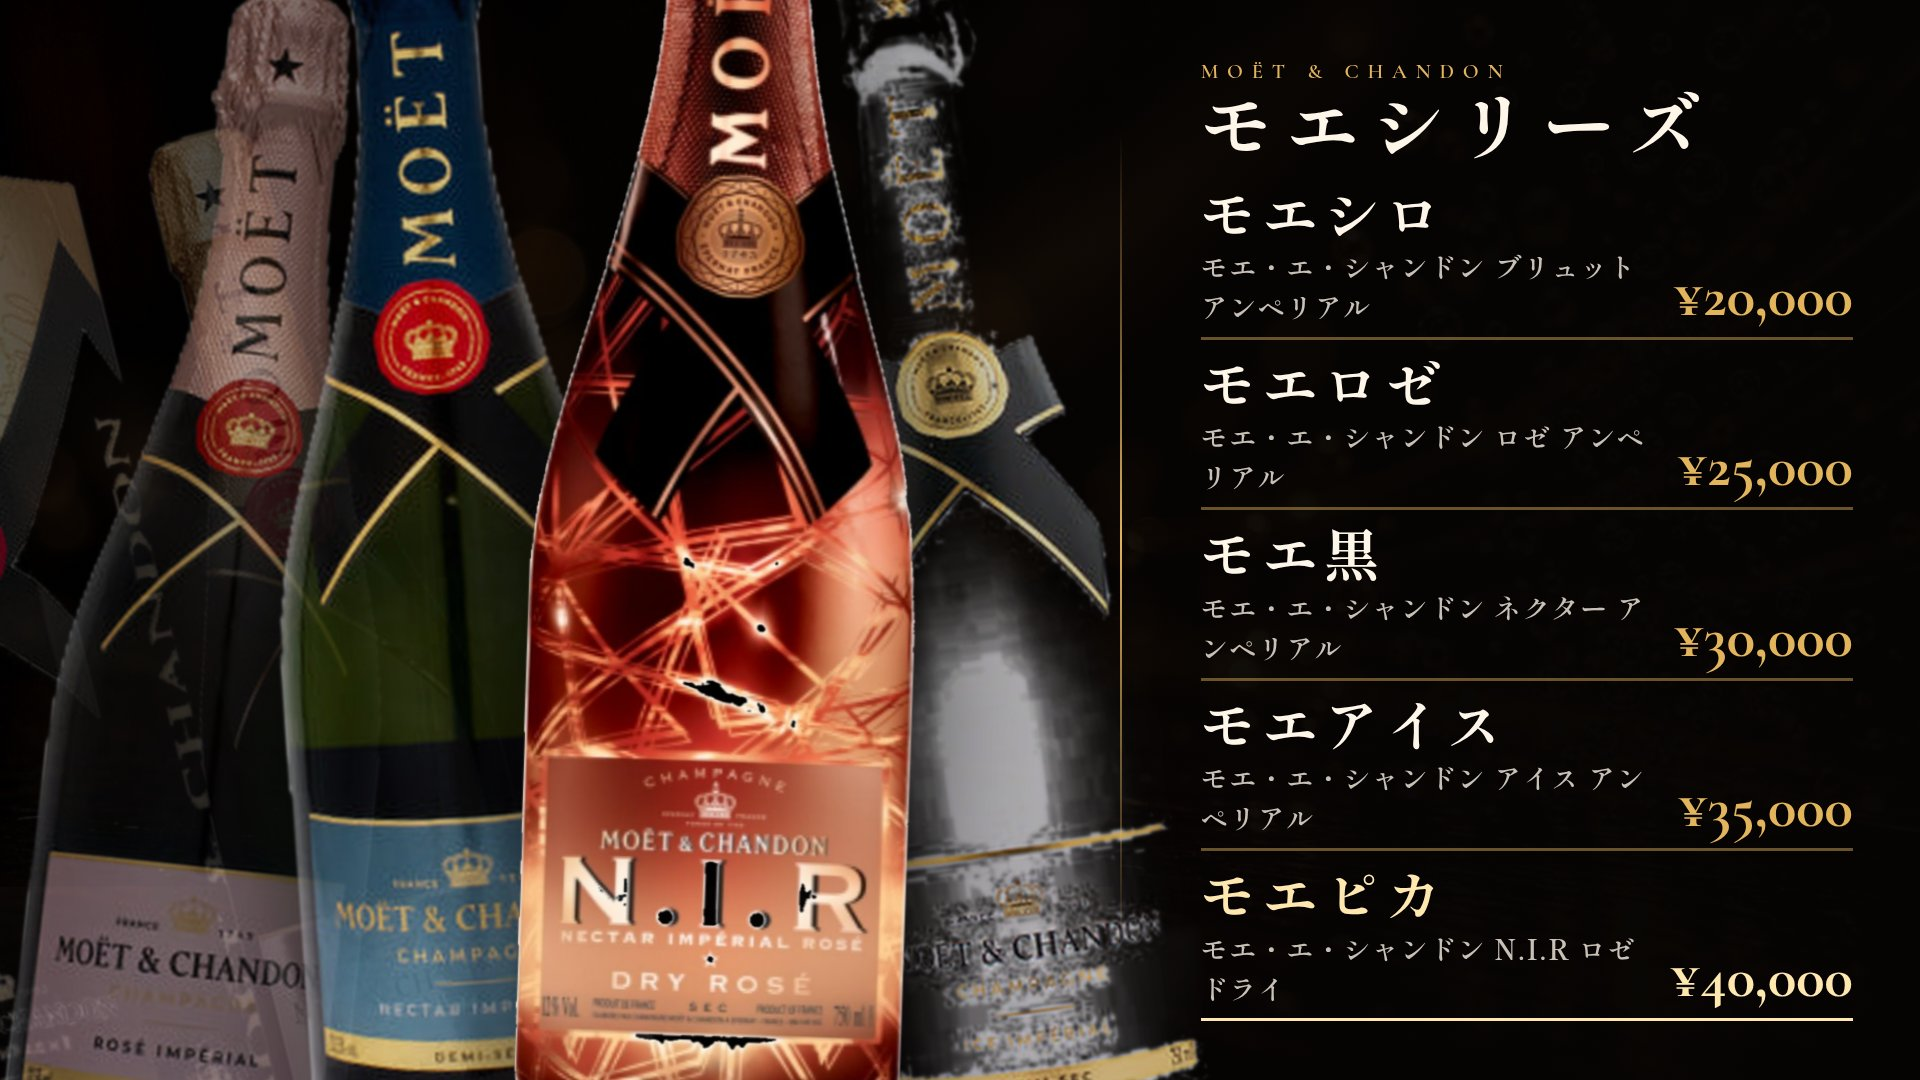
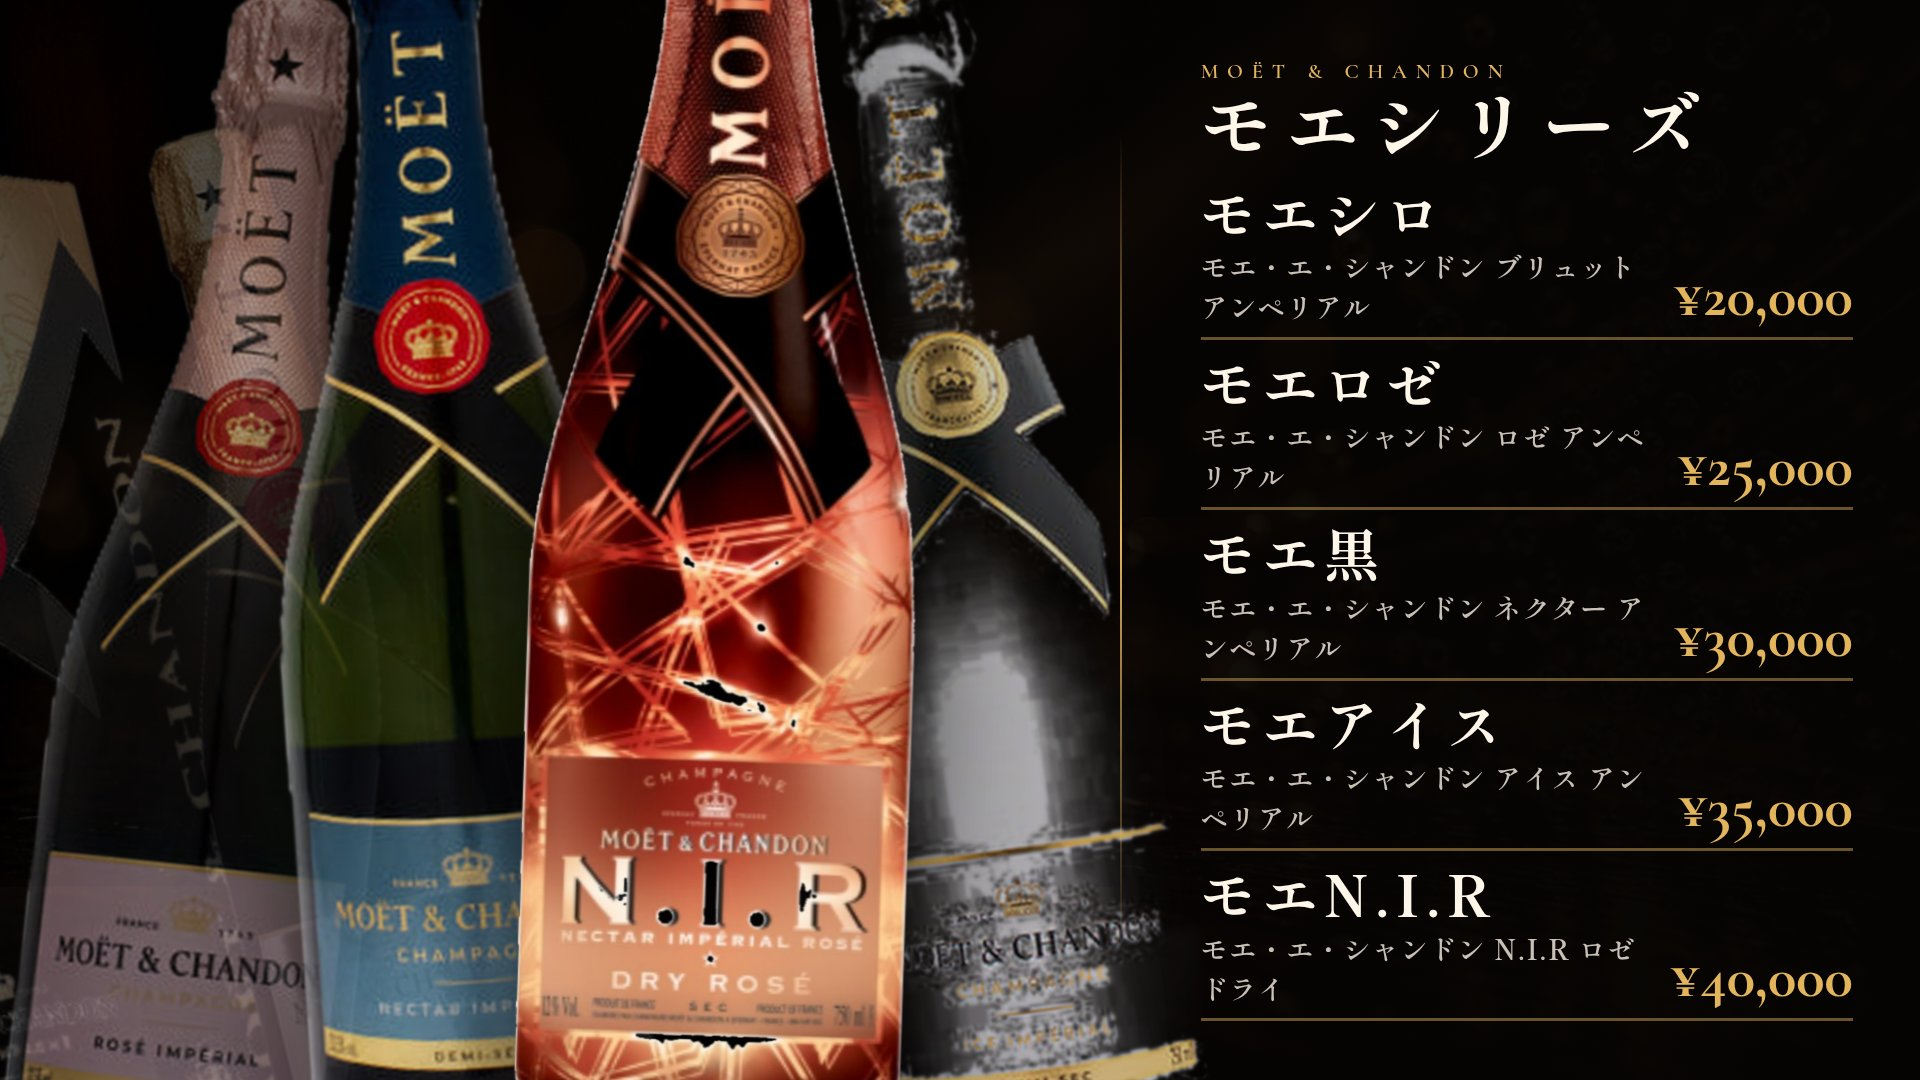
Tweak Design 20 NIR row: same text color, rename to モエN.I.R
Remove the hot highlight so the last menu line matches the others.

diff --git a/designs/20-bar-reflect.html b/designs/20-bar-reflect.html
@@ -21,7 +21,7 @@
 <div class="panel">
 <p class="maison">MOËT &amp; CHANDON</p>
 <h1 class="title">モエシリーズ</h1>
-<div class="list"><div class="row"><div><p class="nick">モエシロ</p><p class="formal">モエ・エ・シャンドン ブリュット アンペリアル</p></div><p class="price">¥20,000</p></div><div class="row"><div><p class="nick">モエロゼ</p><p class="formal">モエ・エ・シャンドン ロゼ アンペリアル</p></div><p class="price">¥25,000</p></div><div class="row"><div><p class="nick">モエ黒</p><p class="formal">モエ・エ・シャンドン ネクター アンペリアル</p></div><p class="price">¥30,000</p></div><div class="row"><div><p class="nick">モエアイス</p><p class="formal">モエ・エ・シャンドン アイス アンペリアル</p></div><p class="price">¥35,000</p></div><div class="row is-hot"><div><p class="nick">モエピカ</p><p class="formal">モエ・エ・シャンドン N.I.R ロゼ ドライ</p></div><p class="price">¥40,000</p></div></div>
+<div class="list"><div class="row"><div><p class="nick">モエシロ</p><p class="formal">モエ・エ・シャンドン ブリュット アンペリアル</p></div><p class="price">¥20,000</p></div><div class="row"><div><p class="nick">モエロゼ</p><p class="formal">モエ・エ・シャンドン ロゼ アンペリアル</p></div><p class="price">¥25,000</p></div><div class="row"><div><p class="nick">モエ黒</p><p class="formal">モエ・エ・シャンドン ネクター アンペリアル</p></div><p class="price">¥30,000</p></div><div class="row"><div><p class="nick">モエアイス</p><p class="formal">モエ・エ・シャンドン アイス アンペリアル</p></div><p class="price">¥35,000</p></div><div class="row"><div><p class="nick">モエN.I.R</p><p class="formal">モエ・エ・シャンドン N.I.R ロゼ ドライ</p></div><p class="price">¥40,000</p></div></div>
 </div>
 </div>
 
